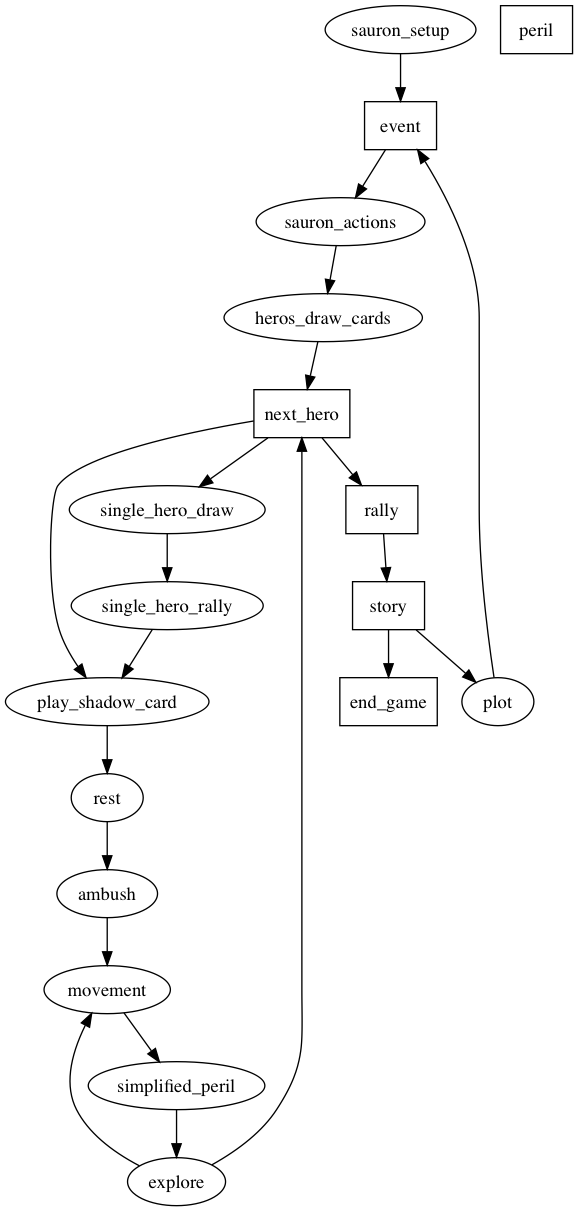
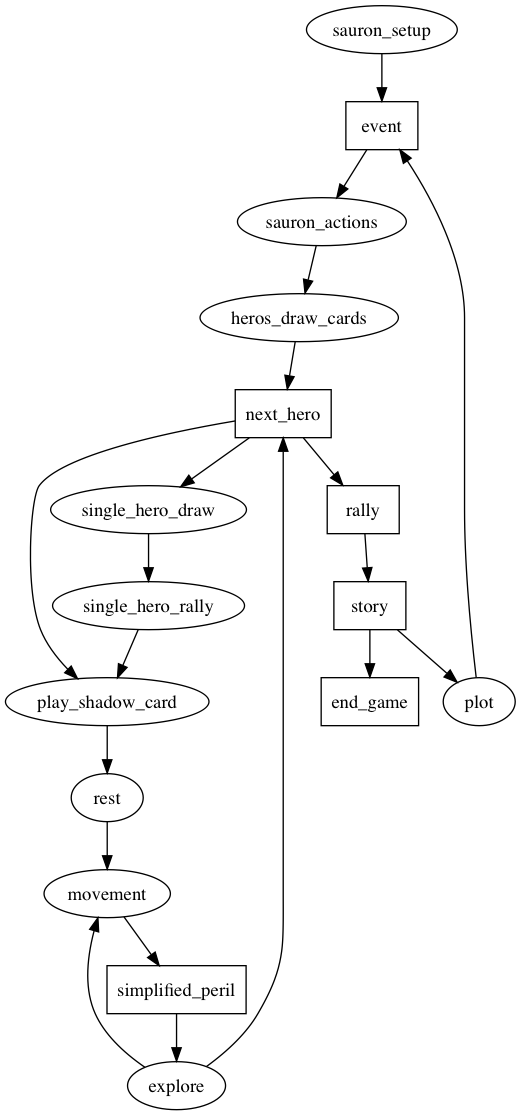
Hero turn now skip event phase.

diff --git a/test/integration/main_flow_test.rb b/test/integration/main_flow_test.rb
@@ -91,31 +91,31 @@ class MainFlowTest < ActionDispatch::IntegrationTest
     assert_response :success
 
     get "/heros/#{@hero.id}/rest_finished"
-    assert_response :redirect
-    follow_redirect!
-    assert_response :success
-    assert_select 'h1', 'Movement preparation'
-
-    get "/heros/#{@hero.id}/movement_preparation_steps/terminate"
-    assert_response :redirect
-    follow_redirect!
-    assert_response :success
-    assert_select 'h1', 'Listing boards'
-
-    assert_select 'td', 'Argalad'
-    assert_select "a[href=?]", "/sauron/#{@sauron.id}/movement_break_schedule_screen"
-
-    get "/sauron/#{@sauron.id}/movement_break_schedule_screen"
-    assert_response :success
-
-    get "/sauron/#{@sauron.id}/movement_break_schedule_finished"
-    assert_response :redirect
-    follow_redirect!
-    assert_response :success
-    assert_select 'h1', 'Listing boards'
-
-    assert_select 'td', 'Sauron'
-    assert_select "a[href=?]", "/heros/#{@hero.id}/movement_screen"
+    # assert_response :redirect
+    # follow_redirect!
+    # assert_response :success
+    # assert_select 'h1', 'Movement preparation'
+    #
+    # get "/heros/#{@hero.id}/movement_preparation_steps/terminate"
+    # assert_response :redirect
+    # follow_redirect!
+    # assert_response :success
+    # assert_select 'h1', 'Listing boards'
+    #
+    # assert_select 'td', 'Argalad'
+    # assert_select "a[href=?]", "/sauron/#{@sauron.id}/movement_break_schedule_screen"
+    #
+    # get "/sauron/#{@sauron.id}/movement_break_schedule_screen"
+    # assert_response :success
+    #
+    # get "/sauron/#{@sauron.id}/movement_break_schedule_finished"
+    # assert_response :redirect
+    # follow_redirect!
+    # assert_response :success
+    # assert_select 'h1', 'Listing boards'
+    #
+    # assert_select 'td', 'Sauron'
+    # assert_select "a[href=?]", "/heros/#{@hero.id}/movement_screen"
 
     get "/heros/#{@hero.id}/movement_screen"
     assert_response :success
@@ -130,28 +130,28 @@ class MainFlowTest < ActionDispatch::IntegrationTest
     assert_response :redirect
     follow_redirect!
     assert_response :success
-    assert_select 'h3', 'Encounter screen'
-
-    get "/heros/#{@hero.id}/encounter_finished"
-    assert_response :redirect
-    follow_redirect!
-    assert_response :success
-    assert_select 'h1', 'Listing boards'
-
-    assert_select 'td', 'Argalad'
-    assert_select "a[href=?]", "/sauron/#{@sauron.id}/story_screen"
-
-    get "/sauron/#{@sauron.id}/story_screen"
-    assert_response :success
-
-    get "/sauron/#{@sauron.id}/story_step_finished"
-    assert_response :redirect
-    follow_redirect!
-    assert_response :success
     # assert_select 'h3', 'Encounter screen'
-
-    get "/sauron/#{@sauron.id}/event/edit"
-    assert_response :success
+    #
+    # get "/heros/#{@hero.id}/encounter_finished"
+    # assert_response :redirect
+    # follow_redirect!
+    # assert_response :success
+    # assert_select 'h1', 'Listing boards'
+    #
+    # assert_select 'td', 'Argalad'
+    # assert_select "a[href=?]", "/sauron/#{@sauron.id}/story_screen"
+    #
+    # get "/sauron/#{@sauron.id}/story_screen"
+    # assert_response :success
+    #
+    # get "/sauron/#{@sauron.id}/story_step_finished"
+    # assert_response :redirect
+    # follow_redirect!
+    # assert_response :success
+    # # assert_select 'h3', 'Encounter screen'
+    #
+    # get "/sauron/#{@sauron.id}/event/edit"
+    # assert_response :success
   end
 
   # This test only validate that the main flow is working

diff --git a/app/models/game_engine/actor_turn_management.rb b/app/models/game_engine/actor_turn_management.rb
@@ -1,5 +1,5 @@
 # This module is included in board.
-# To use it, call @board.
+# To use it, call self.
 
 module GameEngine
   module ActorTurnManagement
@@ -16,6 +16,29 @@ module GameEngine
       end
     end
 
+    def finish_hero_turn!
+      self.transaction do
+
+      unless switch_to_next_hero
+        # If all heroes have played, we switch to sauron turn
+
+        # At this place we need to :
+        # - Call the automated rally step
+        # - Call the automated story step
+        self.next_to_plot!
+        self.switch_to_sauron
+      else
+        # Otherwise, we switch to the sauron ability to play a shadow card at the beginning of the player
+        self.next_to_play_shadow_card_at_start_of_hero_turn!
+        self.switch_to_sauron
+      end
+
+      self.save!
+      end
+    end
+    
+    private
+
     # Set the variable current_hero to  the next current hero
     # Return true if a hero had been activated
     # Return false if all heroes had finished their turn
@@ -30,7 +53,7 @@ module GameEngine
 
         if remaining_heroes.count >= 1
           next_hero = remaining_heroes.order('playing_order ASC').first
-          raise "Board #{@board.id} : hero.playing_order should not be nil" unless next_hero.playing_order
+          raise "Board #{self.id} : hero.playing_order should not be nil" unless next_hero.playing_order
 
           self.current_hero = next_hero
           self.activate_current_hero

diff --git a/app/controllers/heros_controller.rb b/app/controllers/heros_controller.rb
@@ -95,10 +95,8 @@ class HerosController < ApplicationController
 
   def exploration_finished
     @board.transaction do
-      @board.next_to_encounter!
-      @board.save!
-
-      redirect_to hero_encounter_screen_path(@actor)
+      @board.finish_hero_turn!
+      redirect_to boards_path
     end
   end
 
@@ -112,25 +110,10 @@ class HerosController < ApplicationController
   end
 
   def encounter_finished
-    unless @board.switch_to_next_hero
-      # This mean that all heroes have finished their turn.
-      # We need to :
-      # - Execute the rally step
-
-      @board.transaction do
-        @board.next_to_story!
-        @board.switch_to_sauron
-        @board.save!
-      end
-    else
-      @board.transaction do
-        @board.next_to_play_shadow_card_at_start_of_hero_turn!
-        @board.switch_to_sauron
-        @board.save!
-      end
+    @board.transaction do
+      @board.finish_hero_turn!
+      redirect_to boards_path
     end
-
-    redirect_to boards_path
   end
 
   ###

diff --git a/app/models/game_engine/board_aasm.rb b/app/models/game_engine/board_aasm.rb
@@ -55,16 +55,16 @@ module GameEngine
           transitions :from => :movement, :to => :exploration
         end
 
-        event :next_to_encounter do
-          transitions :from => :exploration, :to => :encounter
-        end
-
-        event :next_to_story do
-          transitions :from => :encounter, :to => :story
-        end
+        # event :next_to_encounter do
+        #   transitions :from => :exploration, :to => :encounter
+        # end
+        #
+        # event :next_to_story do
+        #   transitions :from => :encounter, :to => :story
+        # end
 
         event :next_to_plot do
-          transitions :from => :story, :to => :plot
+          transitions :from => :exploration, :to => :plot
         end
 
         # event :next_to_sauron_turn do
